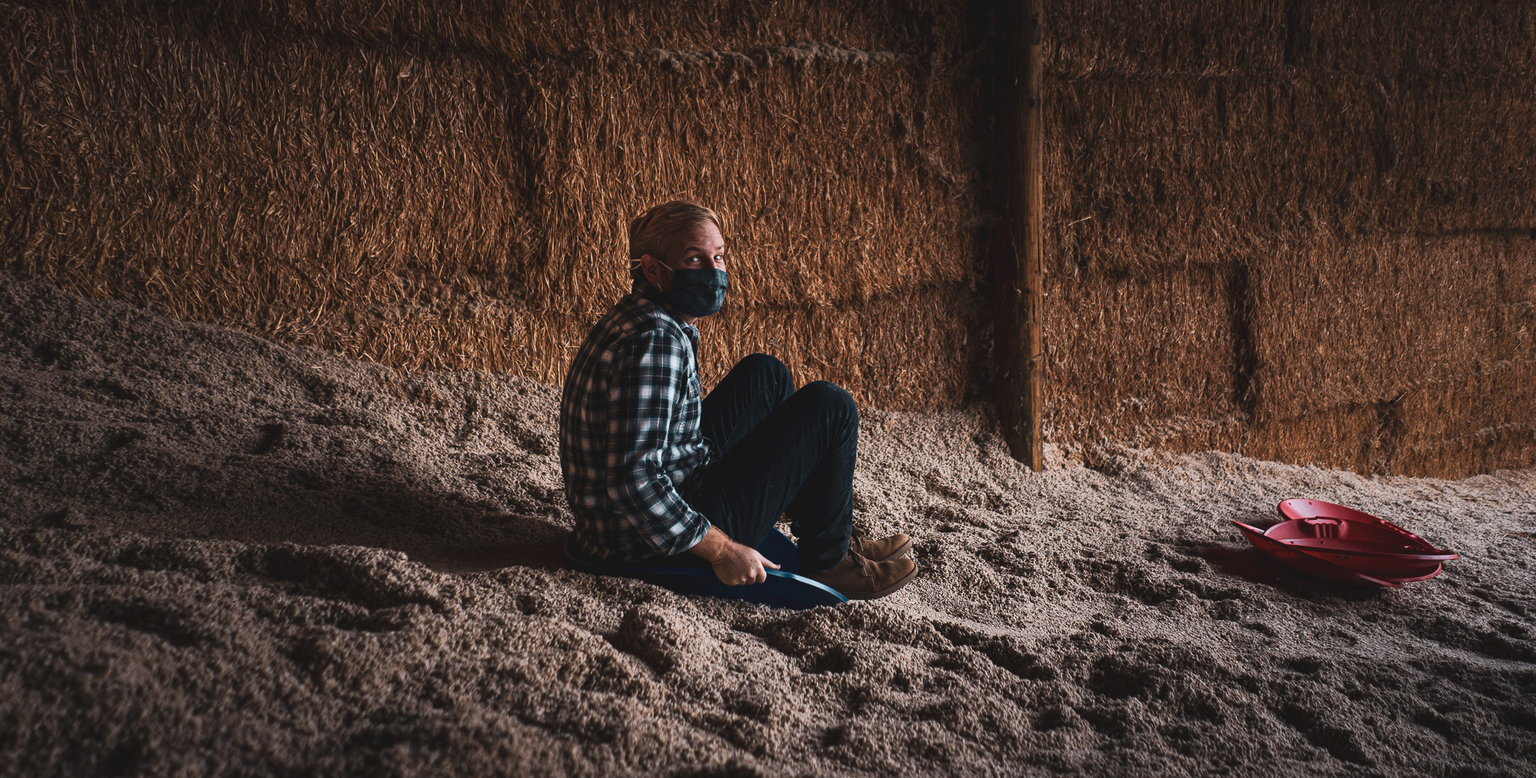
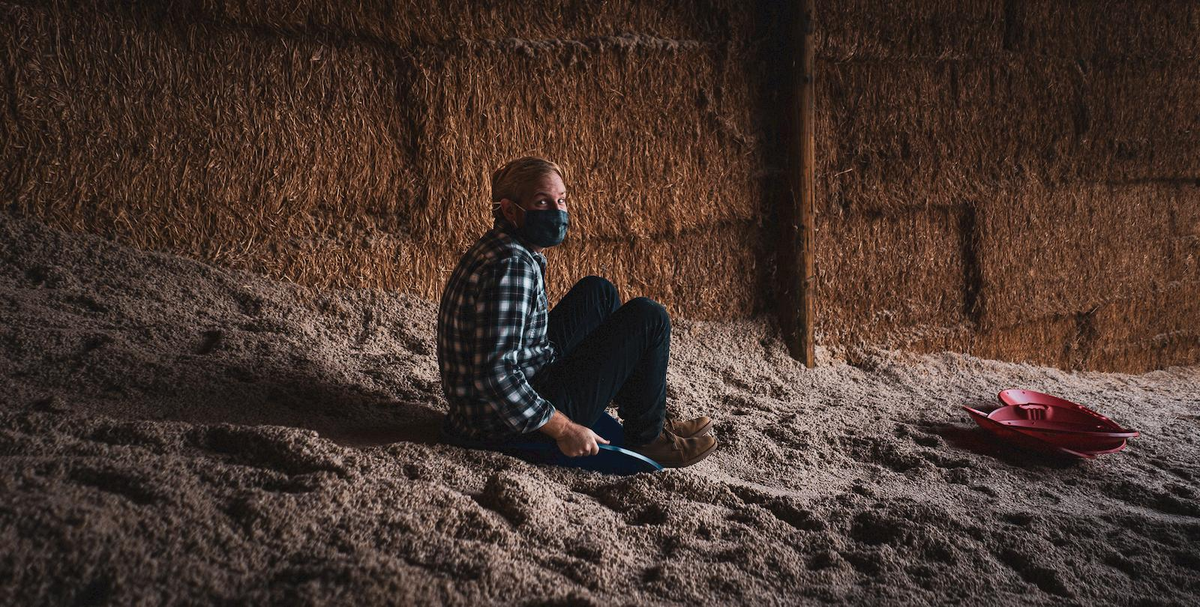
optimize assets for web

diff --git a/docs/.vuepress/components/section-featured.vue b/docs/.vuepress/components/section-featured.vue
@@ -31,8 +31,9 @@
             <browser-frame>
               <img
                 class="h-full w-full object-cover object-top"
-                src="/projects/premier.png"
-                alt=""
+                src="/projects/premier.jpg"
+                alt="Premier Healthcare Management"
+                loading="lazy"
               />
             </browser-frame>
           </div>
@@ -70,7 +71,8 @@
               <img
                 class="h-full w-full object-cover object-top"
                 src="/projects/pure.jpg"
-                alt=""
+                alt="Pure Studio"
+                loading="lazy"
               />
             </browser-frame>
           </div>
@@ -107,7 +109,8 @@
               <img
                 class="h-full w-full object-cover object-top"
                 src="/projects/tipsy.jpg"
-                alt=""
+                alt="Tipsy Elves"
+                loading="lazy"
               />
             </browser-frame>
           </div>

diff --git a/docs/.vuepress/components/section-hero.vue b/docs/.vuepress/components/section-hero.vue
@@ -23,7 +23,7 @@
         >
           <img
             class="w-40 h-40 mx-auto mb-8 rounded-full md:h-60 md:w-60 xl:hidden"
-            src="/pictures/joel-head-shot.jpeg"
+            src="/pictures/joel-head-shot.jpg"
             alt="Joel Brubaker"
           />
           <div class="text-center xl:text-left">
@@ -63,11 +63,12 @@
         </main>
       </div>
     </div>
-    <div class="xl:absolute xl:inset-y-0 xl:right-0 xl:w-1/2">
+    <div class="xl:absolute bg-blue-500 xl:inset-y-0 xl:right-0 xl:w-1/2">
       <img
         class="hidden h-56 w-full object-cover sm:h-72 md:h-96 xl:w-full xl:h-full xl:block"
         src="/pictures/joel-brubaker.jpg"
-        alt=""
+        alt="Joel Brubaker"
+        loading="lazy"
       />
     </div>
   </section>

diff --git a/docs/.vuepress/components/section-quote.vue b/docs/.vuepress/components/section-quote.vue
@@ -59,8 +59,9 @@
               <div class="md:flex-shrink-0">
                 <img
                   class="mx-auto h-10 w-10 rounded-full"
-                  src="/pictures/art-longbottom.jpeg"
-                  alt=""
+                  src="/pictures/art-longbottom.jpg"
+                  alt="Arthur Longbottom"
+                  loading="lazy"
                 />
               </div>
               <div

diff --git a/docs/.vuepress/components/section-contact.vue b/docs/.vuepress/components/section-contact.vue
@@ -83,6 +83,7 @@
               class="absolute inset-0 w-full h-full transform translate-x-6 translate-y-6 rounded-md object-cover object-left-top sm:translate-x-16 lg:translate-y-20"
               src="https://tailwindui.com/img/component-images/full-width-with-sidebar.jpg"
               alt="App screenshot"
+              loading="lazy"
             />
           </div>
         </div>

diff --git a/docs/.vuepress/components/section-tech.vue b/docs/.vuepress/components/section-tech.vue
@@ -53,6 +53,7 @@
               width="100"
               :src="tool.icon"
               :alt="tool.text"
+              loading="lazy"
             />
             <div class="uppercase mt-4 text-sm font-bold text-gray-600">
               {{ tool.text }}
